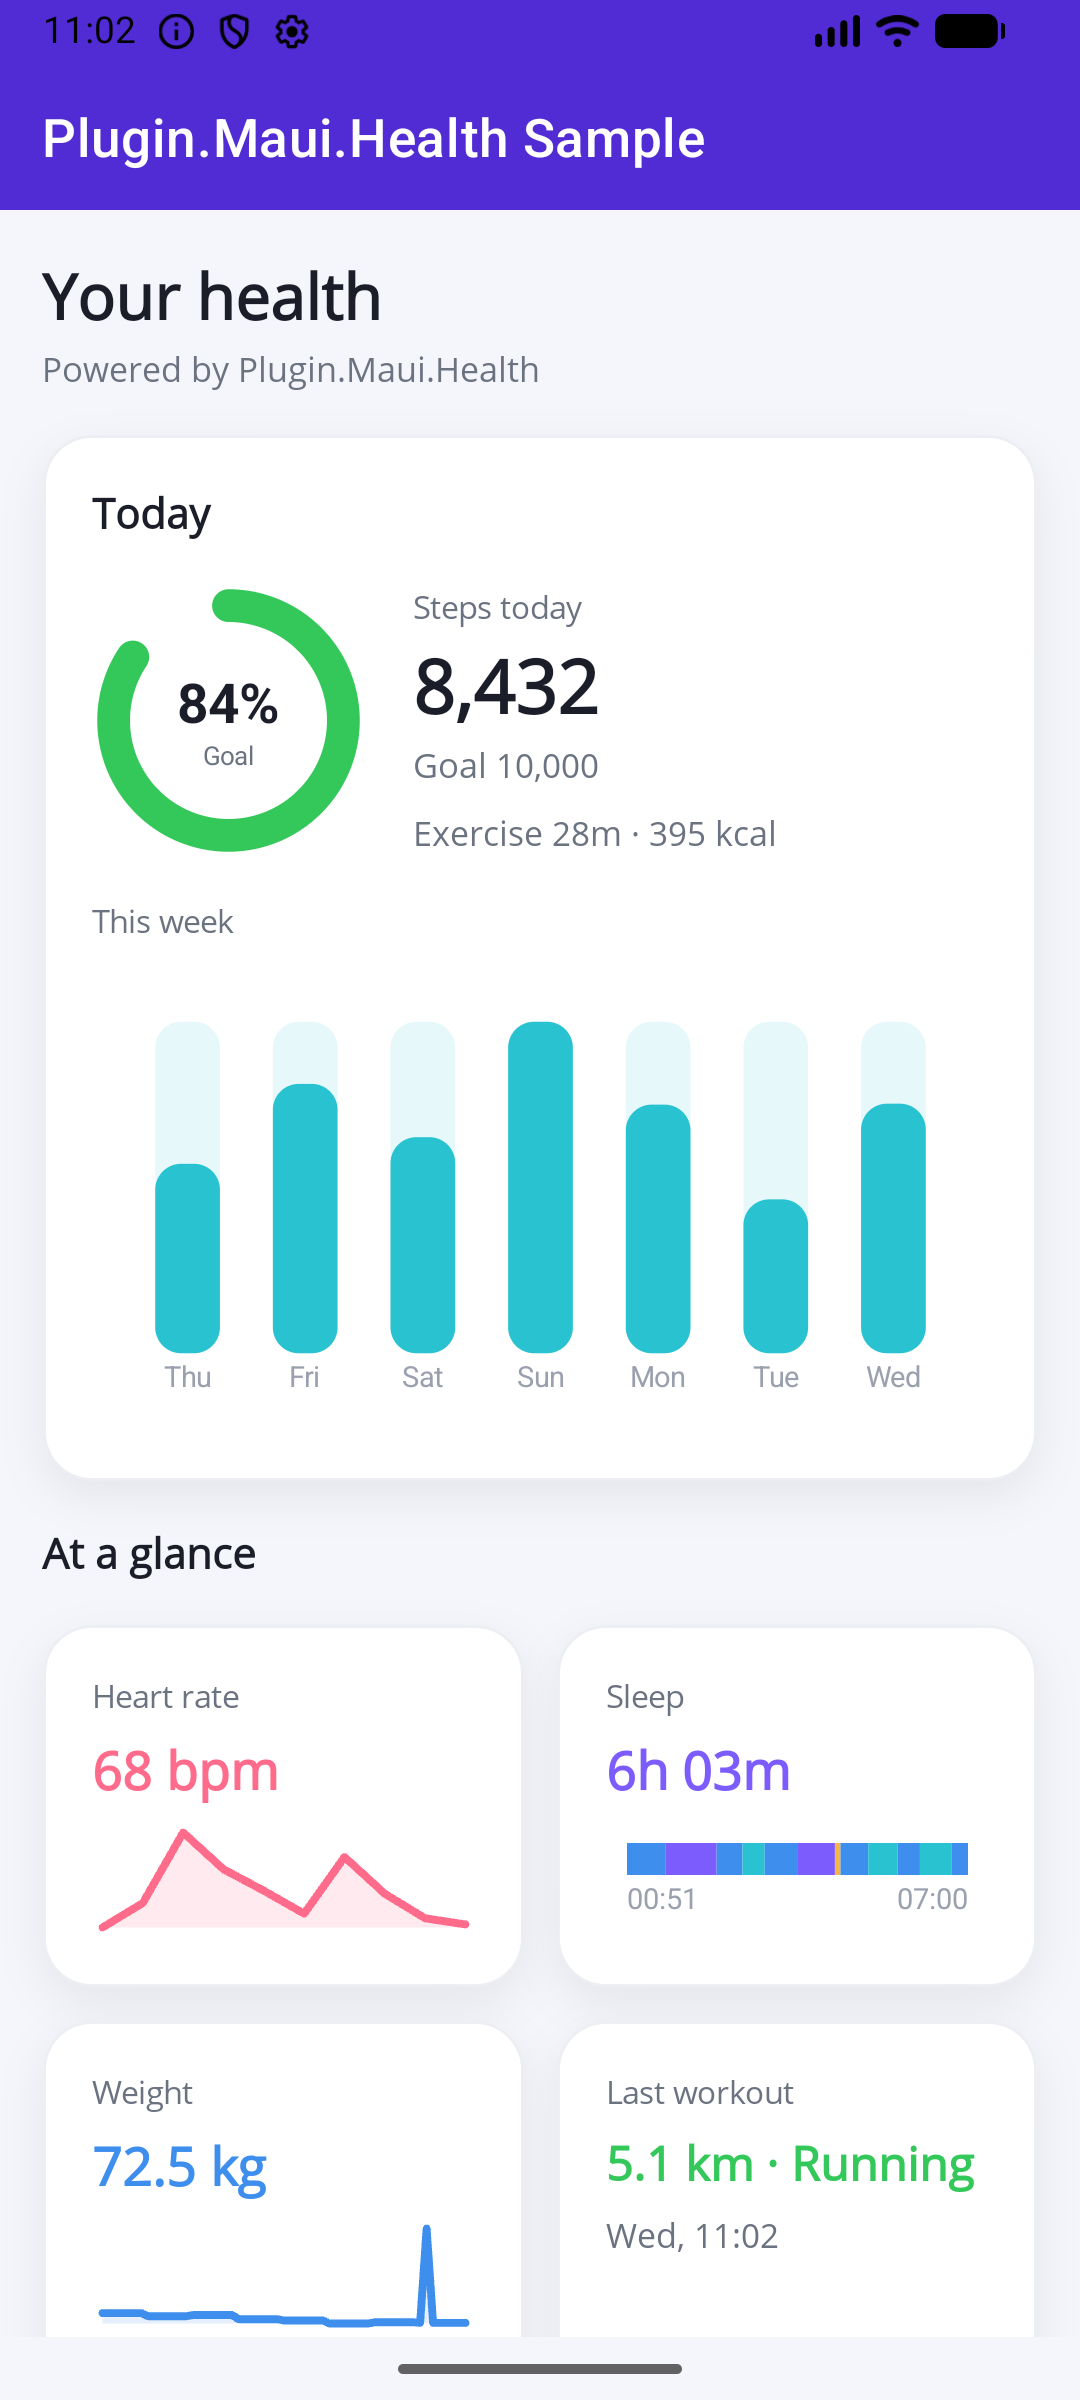
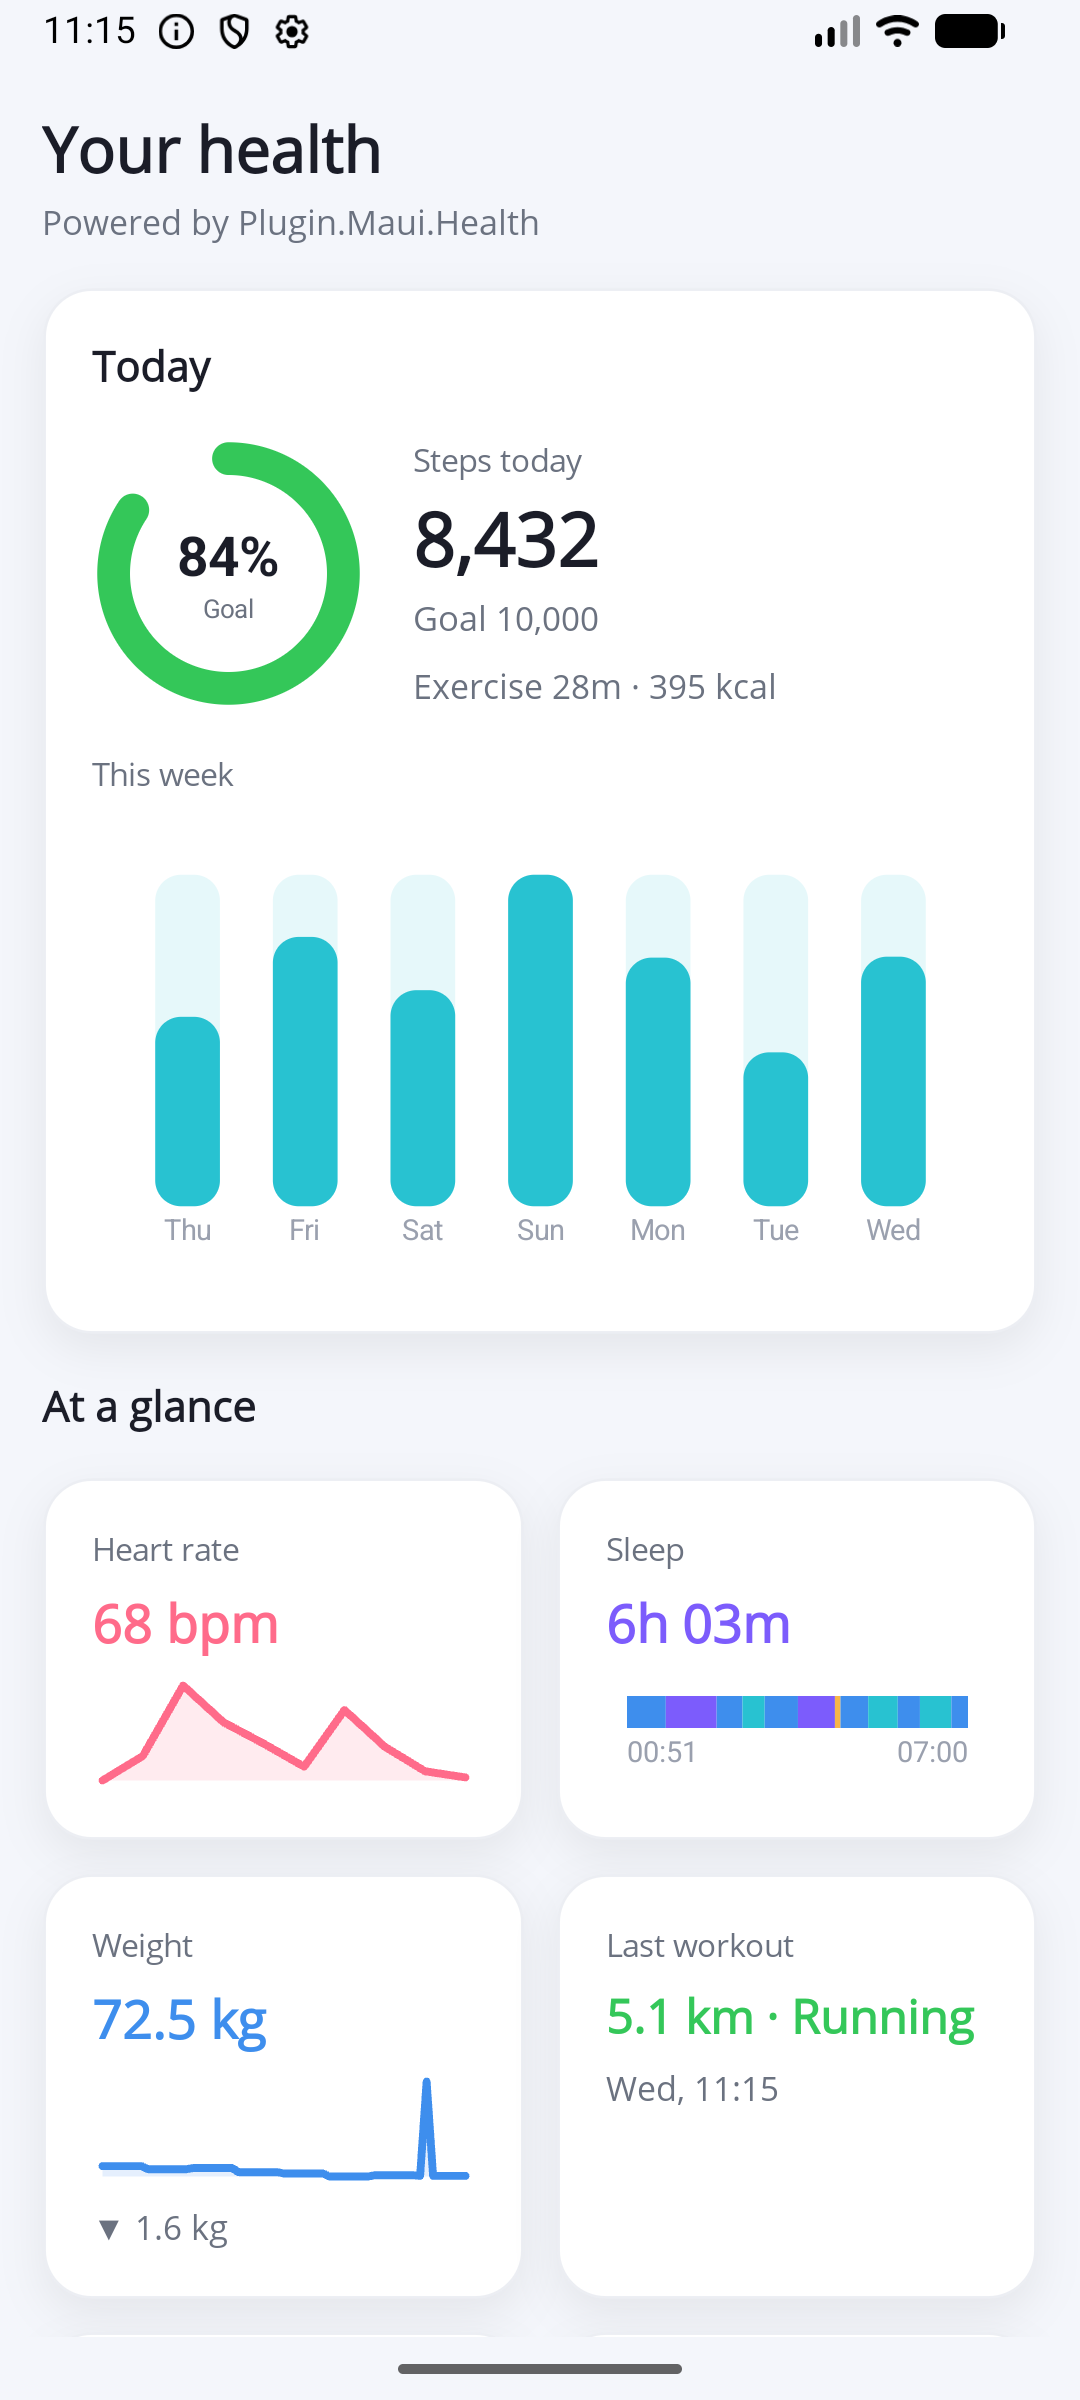
feat(sample): hide the Shell nav bar on the dashboard
Give the dashboard an immersive look: hide the Shell navigation bar (the page
already has its own "Your health" header) and respect the iOS safe area. Since
that removes the purple bar that tinted the status bar, the dashboard now sets
a light status bar with dark icons on appearing and restores the purple Shell
chrome (light icons) on leaving, so detail pages are unaffected. Refresh the
dashboard screenshots to match.

diff --git a/samples/Plugin.Maui.Health.Sample/MainPage.xaml b/samples/Plugin.Maui.Health.Sample/MainPage.xaml
@@ -3,9 +3,12 @@
              xmlns:x="http://schemas.microsoft.com/winfx/2009/xaml"
              xmlns:vm="clr-namespace:Plugin.Maui.Health.Sample.ViewModels"
              xmlns:charts="clr-namespace:Plugin.Maui.Health.Sample.Controls"
+             xmlns:ios="clr-namespace:Microsoft.Maui.Controls.PlatformConfiguration.iOSSpecific;assembly=Microsoft.Maui.Controls"
              x:Class="Plugin.Maui.Health.Sample.MainPage"
              x:DataType="vm:MainPageViewModel"
              BackgroundColor="{StaticResource PageBackground}"
+             Shell.NavBarIsVisible="False"
+             ios:Page.UseSafeArea="True"
              Title="Plugin.Maui.Health Sample">
 
     <ScrollView>

diff --git a/samples/Plugin.Maui.Health.Sample/MainPage.xaml.cs b/samples/Plugin.Maui.Health.Sample/MainPage.xaml.cs
@@ -1,9 +1,16 @@
-using Plugin.Maui.Health.Sample.ViewModels;
+using CommunityToolkit.Maui.Core;
+using CommunityToolkit.Maui.Core.Platform;
+using Plugin.Maui.Health.Sample.ViewModels;
 
 namespace Plugin.Maui.Health.Sample;
 
 public partial class MainPage : ContentPage
 {
+	// The dashboard hides the Shell nav bar, so it manages the status bar itself: a light bar with dark
+	// icons to match the page. Detail pages keep the purple Shell chrome, so we restore that on leaving.
+	static readonly Color DashboardStatusBar = Color.FromArgb("#F4F6FB"); // PageBackground
+	static readonly Color ShellStatusBar = Color.FromArgb("#512BD4");     // Primary
+
 	MainPageViewModel mainPageViewModel;
 
 	public MainPage(MainPageViewModel mainPageViewModel)
@@ -16,7 +23,27 @@ public partial class MainPage : ContentPage
 	protected override void OnAppearing()
 	{
 		base.OnAppearing();
+		SetStatusBar(DashboardStatusBar, StatusBarStyle.DarkContent);
 		mainPageViewModel.OnAppearing(null);
 	}
 
+	protected override void OnDisappearing()
+	{
+		base.OnDisappearing();
+		// Navigating to a detail page: hand the purple status bar back to the Shell nav bar.
+		SetStatusBar(ShellStatusBar, StatusBarStyle.LightContent);
+	}
+
+	static void SetStatusBar(Color color, StatusBarStyle style)
+	{
+		try
+		{
+			StatusBar.SetColor(color);
+			StatusBar.SetStyle(style);
+		}
+		catch
+		{
+			// Status-bar theming is best-effort; ignore platforms/states that don't support it.
+		}
+	}
 }